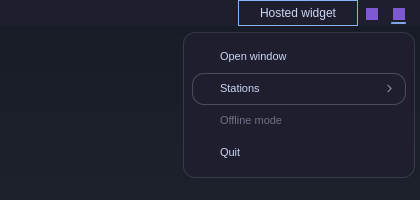
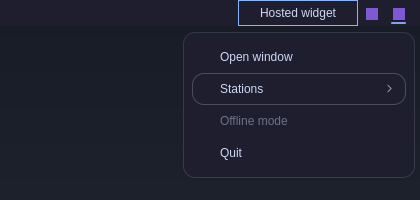
docs(tray): refresh README and screenshot for kit 0.5.1
Drop the duplicated kit/ note and the stale ripgrep remark, and say
where preview.png comes from. preview.png is re-shot with kit 0.5.1
(menu text one pixel lower, the kit menu's size).

diff --git a/README.md b/README.md
@@ -61,8 +61,6 @@ None. The tray has no settings of its own.
 
 ## Development
 
-`kit/` holds shared components copied from [foamy-kit](https://github.com/foamrider/foamy-kit); edit them there, not here.
-
 ```sh
 ./test.sh                 # all of the below except validate
 node tests/tray-model.test.js
@@ -85,8 +83,9 @@ Test dependencies: `node`, `python`, `python-dbus`, `python-gobject`,
 `python-pillow` (screenshots only), `dbus` (`dbus-daemon`), `quickshell`,
 and a [foamy-kit](https://github.com/foamrider/foamy-kit) checkout at
 `~/GitHub/Personal/foamy-kit` (or `FOAMY_KIT`, 0.2.0 or later) for the offscreen harness. Its
-`preview/render.py` renders the mock menus in `preview/Preview.qml`. The
-tests no longer use `ripgrep`.
+`preview/render.py` renders the mock menus in `preview/Preview.qml`;
+`preview.png` is the top right of `menu-cursor-screen.png` from
+`tests/runtime.py --host 4.5 --shots DIR`.
 
 Shared parts (popup card, cursor, tokens, icons, translations) come from
 foamy-kit as stamped copies in `kit/`. Don't edit them here: change foamy-kit
